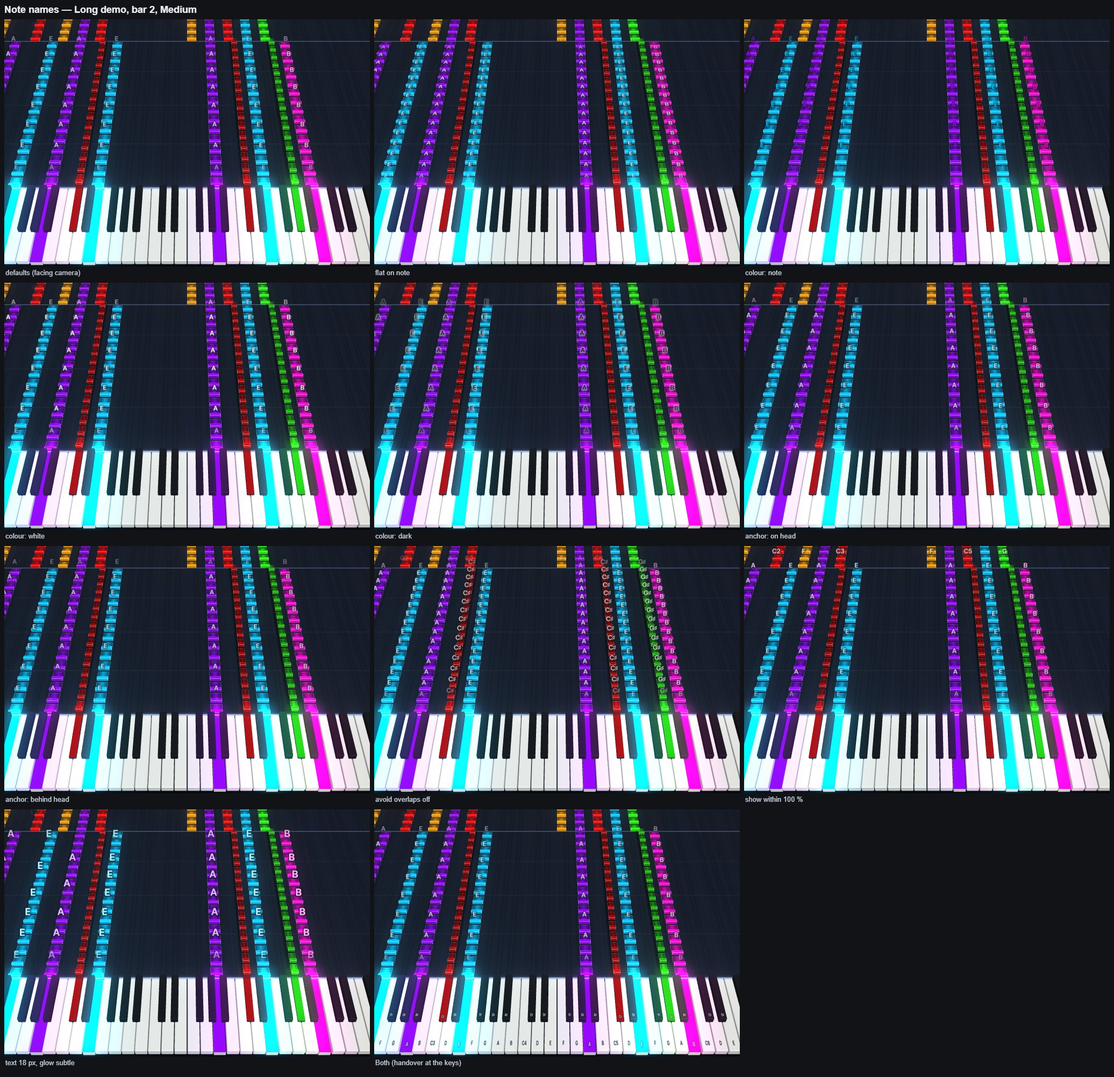
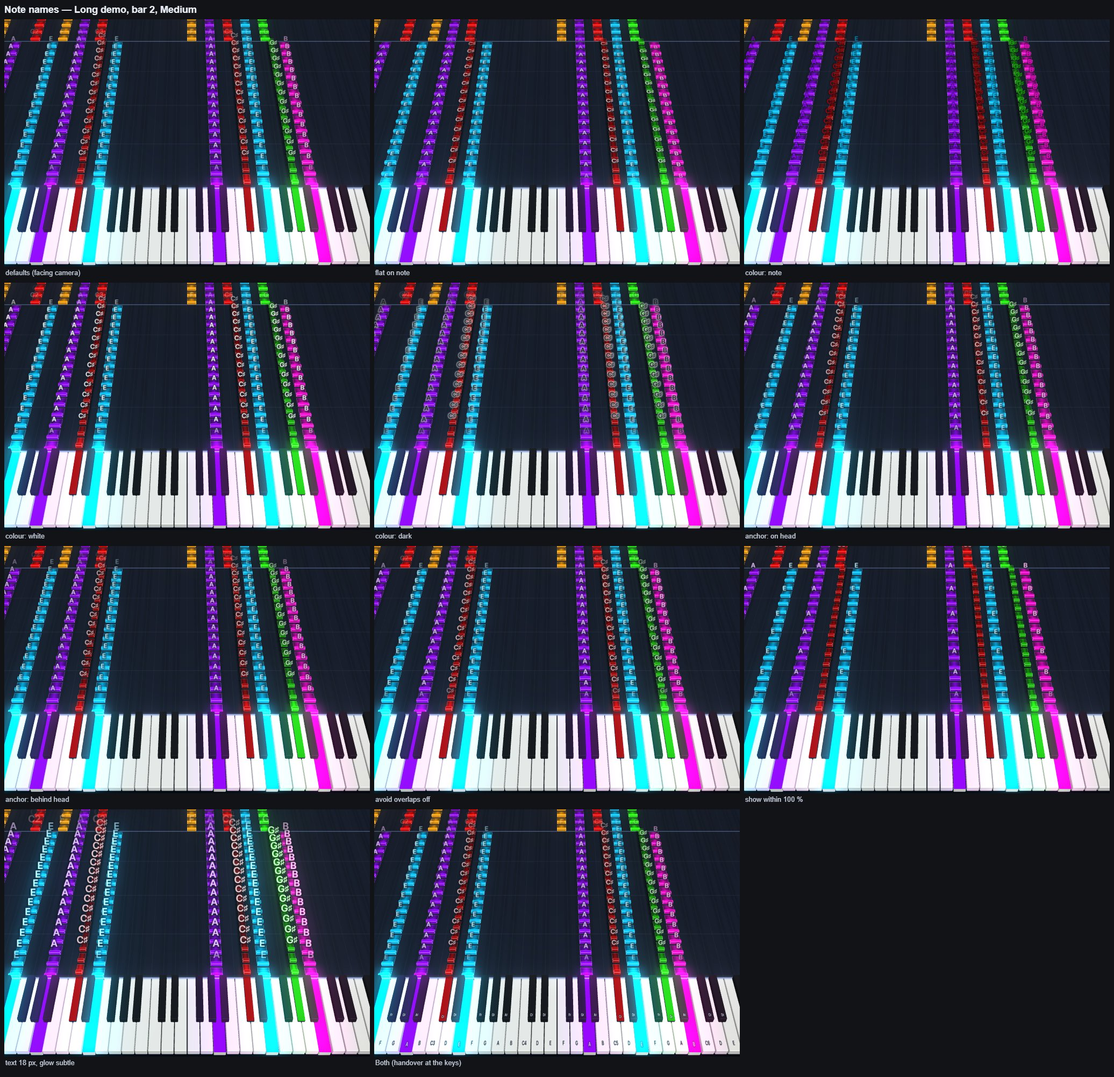
docs: milestone 9 report, round 4; names sheets with stacking

diff --git a/docs/reports/feat-m9-visual-polish.md b/docs/reports/feat-m9-visual-polish.md
@@ -317,3 +317,65 @@ Contact sheets (JPEG, committed): `docs/design/m9/round3/`. Full-size PNGs are r
 - [ ] Outline or Neon on both fills: the edge rows grey out with the hint.
 - [ ] Pedal & cages → Fill: Diagonal stripes on the Pedal demo. Try width, angle, balance, opacity A/B, with no shimmer far away. Fill opacity 100 %: notes keep their own colours.
 - [ ] Head and sustain stripes, each with its own group.
+
+## 2026-11-21 — Round 4: labels that never blink or jump; section-level hints
+
+### What was done
+
+**Avoid overlaps, reworked** (`de062b5`, brief decision 114)
+
+- **Stack slots from the music.** Once per song, `labelStackSlots` finds notes that start at the same tick in neighbouring lanes: lane centres under ~1 white-key width apart, covering white–white, white–black and black–black neighbours. In pitch order, each takes the lowest slot no neighbour holds.
+  - A slot lifts a facing label by one label height + 2 px; a flat label moves one label depth along the note.
+  - Slots are a per-note attribute that never changes, so a label never moves while on screen.
+  - Slots apply while Avoid overlaps is on.
+- **One-way placement** (`placeLabels`), nearest first:
+  - A label entering range shows unless it overlaps a shown one (2 px clearance).
+  - A hidden label fades in (0.15 s, instantly under reduced motion) only once it clears every shown label by 4 px.
+  - A shown label stays shown until its handover fade at the now line. Nothing ever fades out because of an overlap.
+- **Seeks and layout changes:** a seek, or a change to label style, size, anchor, offset, height, range or head shape, places every label afresh, at once, with no fades. The engine skips an overlap-pass frame number, so every label counts as new.
+- The old `hiddenByOverlap` is gone.
+- **Test hook:** `pianomeisterLabels()` (only with `?stats=1`, like the other debug hooks) lists each placed label's state, rendered visibility and slot.
+
+**Section-level hints** (`a260e88`)
+
+- When 3 or more visible rows in a section are greyed out for the same reason, that reason shows once at the top of the section and the rows are greyed out without repeating it. Fewer than 3 keep their per-row hints.
+- Rows report their reason to the section they're in (provide/inject). `sharedHints` in core holds the rule, with unit tests.
+- Rows outside a section, such as the loop popover, keep per-row hints.
+- With note names Off, the Note names section shows two lines, "Needs note names on" and "Needs note names on notes (Notes or Both)", because those are two different reasons. With quality Off, Render quality shows "Needs bloom (quality Low or higher)" once.
+
+### Decisions I made that weren't in the instructions
+
+1. **"Adjacent lanes"** means lane centres under 1.05 white-key widths apart. That covers every neighbouring pair, including E–F and B–C, and C♯–D♯. C–E and wider stay unstacked; if their labels still overlap far away, the one-way hiding handles them.
+2. **Stack slots are on only with Avoid overlaps.** With it off, labels sit side by side as before (see the "avoid overlaps off" cell on the stacked sheet).
+3. **Two clearances.** A new label needs 2 px and a hidden one needs 4 px to show. That way a label can never hover on the boundary and flip.
+4. **Shown labels may overlap later.** This would only happen if notes converged, which doesn't happen on the highway as notes approach. The one-way rule wins over the overlap rule.
+
+### Results
+
+- `npm run check`: pass (650 unit tests, +12: stack slots, one-way placement including a boundary-hover case, shared hints). `npm run build`: pass.
+- **New e2e tests:**
+  - Each one plays for 5 s and compares the label snapshot frame by frame. A failure is a shown label hiding, a label's visibility dropping, or a slot changing.
+    - On the long demo's ten-note chords, which do have hidden labels.
+    - On the Clarity demo's neighbouring-lane chords, which do have stacked labels.
+  - A paused seek, three times: every label is fully in or out on the first frame.
+  - All pass.
+  - Note: none of the long demo's chords have neighbouring lanes, so it exercises hiding, not stacking. That is why the Clarity demo is the stacking case.
+- **E2e, full functional suite** (`chromium` + `polish`, production preview, `--retries=0`), three runs:
+  - 162/166, 164/166, 165/166.
+  - Each run failed a different test (listKeys, loopEditor, loopJump, overview, library, longNames, a player count-in). None of them involve note names or hints.
+  - Each failing test passed when rerun alone.
+  - The failures are click and load timeouts under parallel load, the same environmental flake as before. Nothing failed twice.
+- **Visual:** names sheets regenerated (3/3). New `docs/design/m9/round3/names-stacked.jpg` (Clarity demo: A♯/B stack by default, side by side with Avoid overlaps off). `names-dense.jpg` and `names-pedal.jpg` refreshed.
+
+### Known issues and open questions
+
+1. The full suite is green per test but not in one run: one or two timing flakes per run in unrelated specs. If you want a single green run before the PR, I can look at the shared load (likely sample downloads plus three workers) as its own task.
+2. The Note names section shows two hint lines with names Off, as noted above. If you'd rather it show only the root cause ("Needs note names on") when both apply, that's a small change.
+
+### Manual review checklist (Round 4)
+
+- [ ] Upload `test-fixtures/midi/clarity-demo.mid`, names on Notes: the neighbouring labels stack (one lifted) and stay put as they approach. Avoid overlaps off: they sit side by side.
+- [ ] Long demo, names on Notes, play: labels appear at the far end, and a few fill in as notes spread apart. None ever disappears before the now line.
+- [ ] Seek with Next bar, playing or paused: labels are simply there, with no wave of fades.
+- [ ] Note names → Off: the section's top says why, once (two lines), and the rows are greyed without per-row hints. Render quality → Off: "Needs bloom…" once at the top.
+- [ ] A section with only one or two greyed rows (e.g. Player controls with auto-hide off) still shows the hint under the row.
